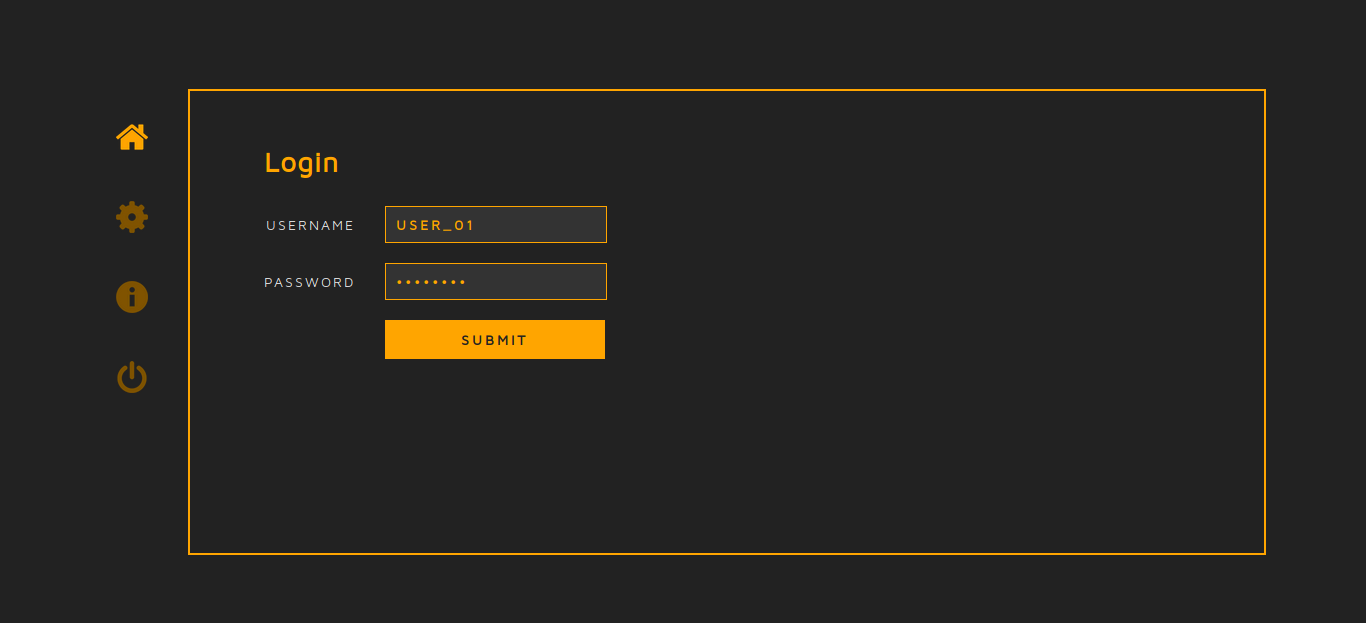
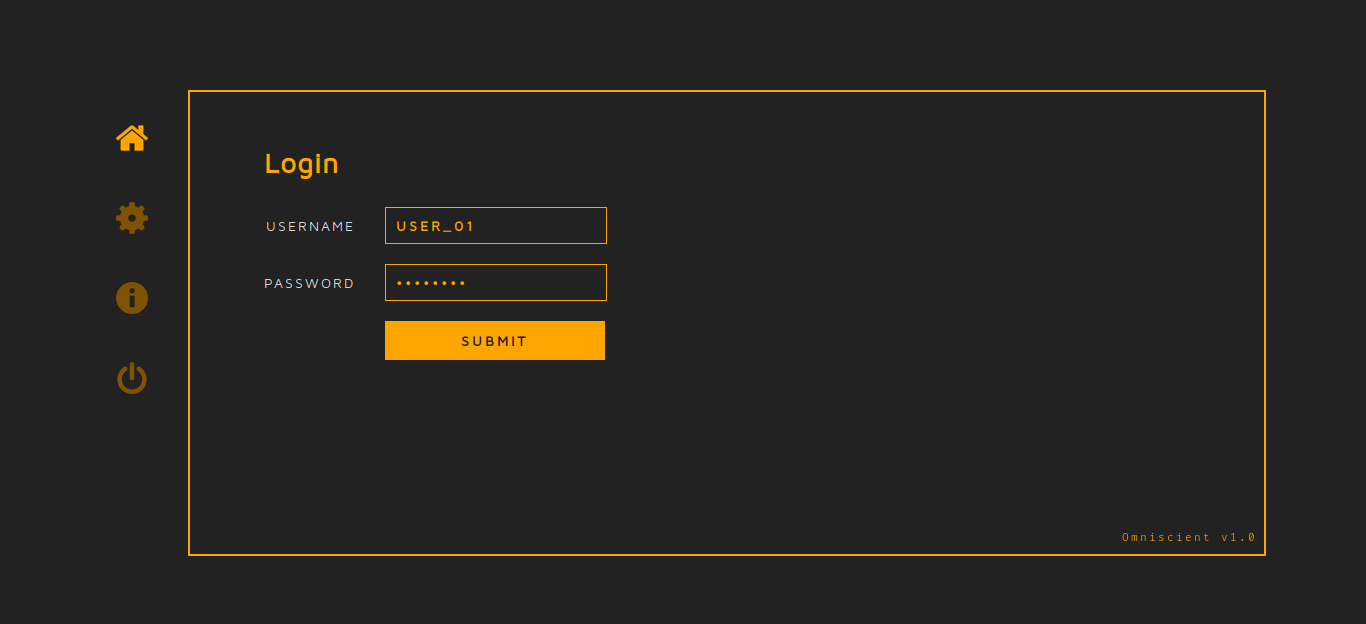
First upload of Omniscient template

diff --git a/Omniscient/css/style.css b/Omniscient/css/style.css
@@ -94,13 +94,17 @@ form.form_login input {
   margin: 10px;
   padding-left: 10px;
   padding-right: 10px;
-  background-color: #333333;
+  background-color: #222222;
   color: #ffa500;
   font-family: inherit !important;
   font-size: 1em;
   font-weight: bold;
   letter-spacing: 2px;
   text-transform: uppercase;
+}
+
+form.form_login input:focus {
+  background-color: #333333;
 }
 
 form.form_login button {
@@ -114,4 +118,14 @@ form.form_login button {
   font-family: inherit !important;
   font-size: 1em;
   font-weight: bold;
+}
+
+#sys {
+  position: fixed;
+  bottom: 15%;
+  right: 8%;
+  color: #ffa500;
+  font-family: 'Fira Code', sans-serif;
+  font-size: 0.8em;
+  letter-spacing: 2px;
 }

diff --git a/Omniscient/index.html b/Omniscient/index.html
@@ -28,6 +28,9 @@
               <label></label><button type="submit">Submit</button>
             </form>
 		  </div>
+		  <div id="sys">
+		  Omniscient v1.0
+		  </div>
         </div>
       </div>
     </div>
